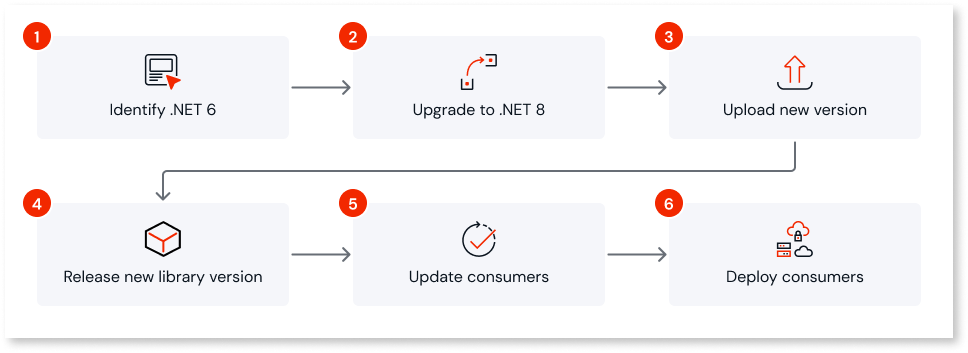
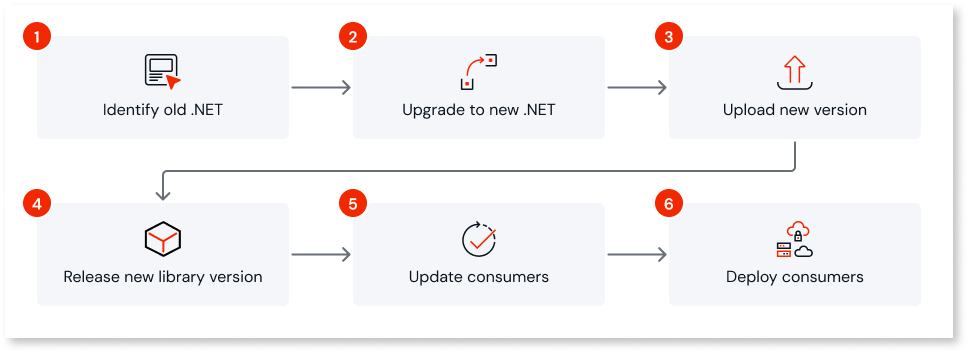
TK-21921: Make custom code upgrade page evergreen for .NET (#2661)

Changed region(s): [[0.4029, 0.2805, 0.5888, 0.3428], [0.093, 0.2805, 0.2479, 0.3428]]

diff --git a/src/eap/building-apps/external-logic/upgrade-net.md b/src/eap/building-apps/external-logic/upgrade-net.md
@@ -1,0 +1,88 @@
+---
+helpids: 30545
+summary: Plan the upgrade of OutSystems Developer Cloud (ODC) custom code libraries to a new .NET version. Understand the timelines and the level of support.
+tags:
+  - .NET
+  - C#
+  - Deploy
+  - Development lifecycle
+  - Libraries
+  - Lifecycle
+guid: 02427545-b80a-4624-8de6-68e6e38efa6b
+locale: en-us
+app_type: mobile apps, reactive web apps
+platform-version: odc
+figma: https://www.figma.com/design/6G4tyYswfWPn5uJPDlBpvp/Building-apps?node-id=5785-31
+audience:
+  - Developer
+  - Platform administrator
+outsystems-tools:
+  - odc studio
+  - odc portal
+coverage-type:
+  - apply
+topic:
+  - custom-code-integration
+isautopublish: true
+---
+
+# Upgrading custom code libraries to a new .NET version
+
+In OutSystems Developer Cloud (ODC), you extend your apps with custom code written in C# and packaged as external logic libraries that run on the .NET runtime. ODC periodically moves that custom code support to a more recent .NET version. This guide explains how those transitions work, the versions and dates that apply, and the steps to upgrade your custom code libraries with minimal disruption.
+
+## Why upgrade
+
+Upgrading keeps your custom code on a supported runtime. Two factors drive it:
+
+* Microsoft ends support for each .NET version on a published schedule. For the dates, refer to [Microsoft's .NET and .NET Core lifecycle](https://learn.microsoft.com/en-us/lifecycle/products/microsoft-net-and-net-core).
+* More recent .NET versions provide the latest features, security updates, and support.
+
+## How ODC supports .NET versions
+
+ODC supports more than one .NET version for custom code at the same time, so you can migrate gradually without disrupting other development. Each version follows the same lifecycle:
+
+* **Availability**: the version becomes available in ODC on a set date. From that date, you can build new custom code with it and upgrade existing libraries to it.
+* **Parallel support**: while a newer version and an older version are both available, you can use and maintain either one. Use this window to migrate your libraries, update their consumers, and deploy across all stages to Production.
+* **Deprecation**: on its deprecation date, support for the older version ends. After that date, you can no longer upload, update, or install custom code that targets it, and OutSystems no longer ensures its functioning, maintenance, or security.
+
+Plan your migration so all libraries and their consumers are upgraded and deployed to Production before the deprecation date.
+
+## Supported versions and dates
+
+The following table lists the .NET versions for custom code and their key dates. The current transition moves custom code from .NET 8 to .NET 10.
+
+| .NET version | Available in ODC | Support ends |
+| --- | --- | --- |
+| .NET 10 | June 22, 2026 | To be announced |
+| .NET 8 | August 7, 2024 | November 10, 2026 |
+
+To upgrade before .NET 8 support ends, follow the steps under Upgrade your custom code libraries.
+
+## Upgrade your custom code libraries
+
+Follow these steps to migrate a custom code library from its current .NET version to a more recent one.
+
+![Diagram showing the six steps to upgrade custom code libraries: identify old .NET, upgrade to new .NET, upload the new version, release the new library version, update consumers, and deploy consumers.](images/upgrade-phases-diag.png "Upgrade steps diagram")
+
+1. Identify custom code libraries that are still using the previous .NET version. You can do this in Portal, under **External Logic**. The **Running version** column shows the .NET version, with a warning for libraries that need an upgrade.
+
+    ![Screenshot of the External Logic list with the library name, latest version, released on, released by, and running version columns. A library shows a warning next to its .NET version in the Running version column.](images/external-logic-running-version-pl.png "External Logic running version list")
+
+1. Upgrade the .NET target framework to .NET 10. For more information, refer to your IDE documentation, for example [multi-targeting in Visual Studio](https://learn.microsoft.com/en-us/visualstudio/ide/visual-studio-multi-targeting-overview). If necessary, adjust the code for the [.NET 9 breaking changes](https://learn.microsoft.com/en-us/dotnet/core/compatibility/9.0) and the [.NET 10 breaking changes](https://learn.microsoft.com/en-us/dotnet/core/compatibility/10.0). For libraries sourced from the Forge, check for updated versions.
+
+1. [Upload the new version in Portal](intro.md#upload-and-publish-the-external-logic). This step isn't necessary if the update was sourced from the Forge.
+
+1. [Release the new version of the library](../libraries/libraries.md#release-a-new-version-of-a-library-release-library).
+
+1. [Update consumers to use the new version](../libraries/libraries.md#update-to-a-new-library-version-update-consumers) and test them.
+
+1. Deploy the consumers across all stages. Ensure they reach Production to propagate the upgrade. Complete this before support for the previous version ends, so all apps continue to run smoothly.
+
+## Recommended actions
+
+Take these actions to keep your factory on a supported .NET version:
+
+* Plan the upgrade across your factory as soon as a more recent version becomes available.
+* Build new custom code, and updates to existing libraries, with the latest available .NET version to minimize later migration effort.
+* Upgrade existing libraries, update their consumers, and deploy to Production before the deprecation date.
+* Forge asset owners: upgrade your assets so consumers have time to test and roll out across the pipeline.